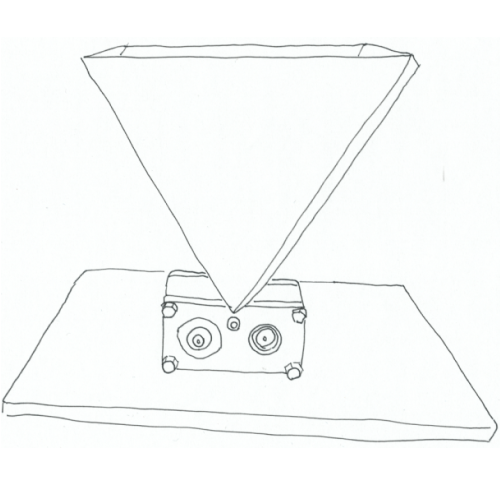
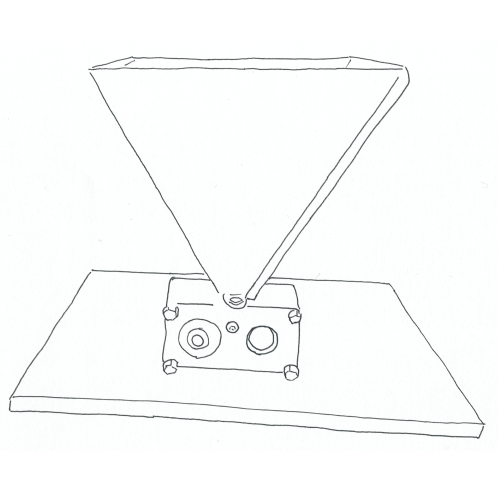
added pump and corrected grainMill pic

diff --git a/components/Brewery.js b/components/Brewery.js
@@ -41,6 +41,9 @@ class Brewery extends Component {
             <BreweryComponent type="SpargingVessel" />
           </Grid>
           <Grid item>
+            <BreweryComponent type="Pump" />
+          </Grid>
+          <Grid item>
             <BreweryComponent type="WortCopper" />
           </Grid>
           <Grid item>
